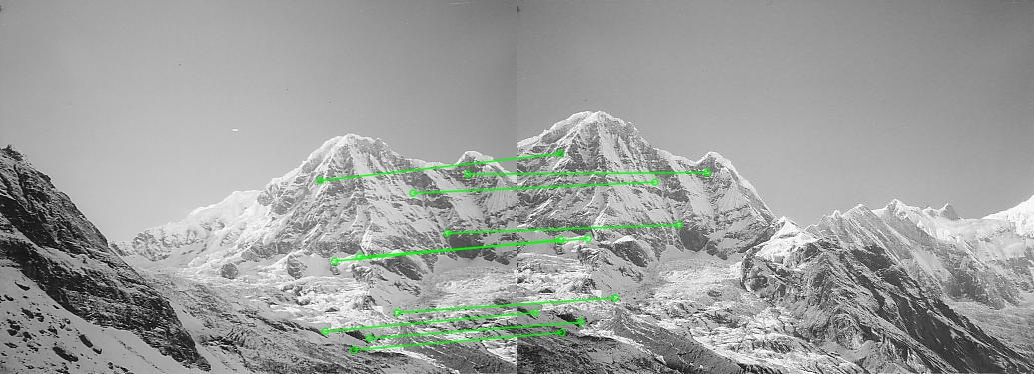
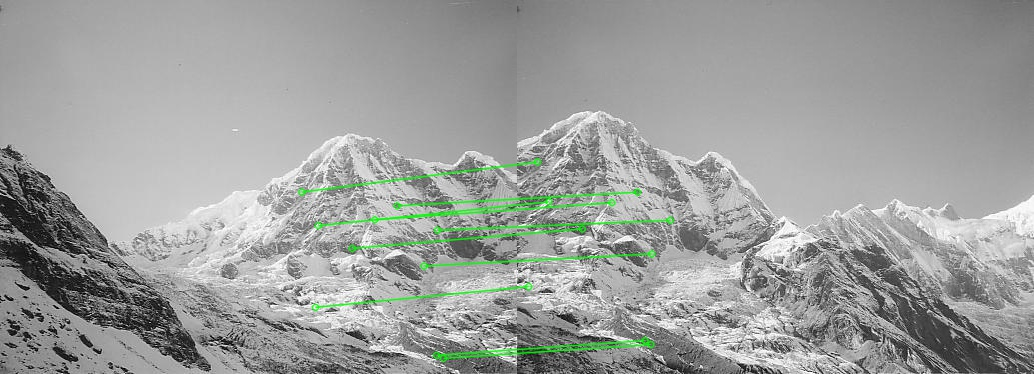
Added image stitching for the task 1

Changed region(s): [[0.2785, 0.3824, 0.7118, 0.7353], [0.2785, 0.7647, 0.6499, 0.9706]]

diff --git a/Project 2/Task1/main.py b/Project 2/Task1/main.py
@@ -70,7 +70,7 @@ def _draw_match_keypoints(*args):
     return(good_matches)
 
 
-def _get_homography_matrix(good_matches, keypoint_1, keypoint_2, _H = True):
+def _get_homography_matrix(good_matches, keypoint_1, keypoint_2, _H=True):
     """Homography matrix H (with RANSAC) from the image 1 to image 2
     """
     source = np.float32(
@@ -82,7 +82,7 @@ def _get_homography_matrix(good_matches, keypoint_1, keypoint_2, _H = True):
     if _H:
         print("Homography Matrix  : ")
         print(H)
-    return(mask)
+    return(mask, H)
 
 
 def _draw_inlier_match_keypoints(img1_g, keypoint_1, img2_g, keypoint_2, good_matches, mask):
@@ -90,7 +90,8 @@ def _draw_inlier_match_keypoints(img1_g, keypoint_1, img2_g, keypoint_2, good_ma
     TODO : Check if good_matches in this case is just inliers or both inliers and outliers
     """
     good_matches = random.sample(good_matches, 10)
-    mask = _get_homography_matrix(good_matches, keypoint_1, keypoint_2, _H = False)
+    mask, _ = _get_homography_matrix(
+        good_matches, keypoint_1, keypoint_2, _H=False)
     matchesMask = mask.ravel().tolist()
     # matchesMask = matchesMask[:10]
     draw_params = dict(matchColor=(0, 255, 0),  # draw matches in green color
@@ -98,10 +99,50 @@ def _draw_inlier_match_keypoints(img1_g, keypoint_1, img2_g, keypoint_2, good_ma
                        matchesMask=matchesMask,  # draw only inliers
                        flags=2)
     # print(len(matchesMask))
-    good_matches = [i[0] for i in good_matches] # Get the elements inside of list elements
+    # Get the elements inside of list elements
+    good_matches = [i[0] for i in good_matches]
     img3 = cv.drawMatches(img1_g, keypoint_1, img2_g,
                           keypoint_2, good_matches, None, **draw_params)
     _save('task1_matches.jpg', img3)
+
+
+def _get_stitched_image(img1, img2, H_Matrix):
+    """
+    """
+
+    # Get width and height of input images
+    width1, height1 = img1.shape
+    width2, height2 = img2.shape
+
+    # Get the canvas dimesions
+    img1_dims = np.float32(
+        [[0, 0], [0, width1], [height1, width1], [height1, 0]]).reshape(-1, 1, 2)
+    img2_dims = np.float32(
+        [[0, 0], [0, width2], [height2, width2], [height2, 0]]).reshape(-1, 1, 2)
+
+    # Get relative perspective of second image
+    img2_dims = cv.perspectiveTransform(img2_dims, H_Matrix)
+
+    # Resulting dimensions
+    result_dims = np.concatenate((img1_dims, img2_dims), axis=0)
+
+    # Getting images together
+    # Calculate dimensions of match points
+    [x_min, y_min] = np.int32(result_dims.min(axis=0).ravel() - 0.5)
+    [x_max, y_max] = np.int32(result_dims.max(axis=0).ravel() + 0.5)
+
+    # Create output array after affine transformation
+    transform_dist = [-x_min, -y_min]
+    transform_array = np.array([[1, 0, transform_dist[0]],
+                                [0, 1, transform_dist[1]],
+                                [0, 0, 1]])
+
+    # Warp images to get the resulting image
+    result_img = cv.warpPerspective(img2, transform_array.dot(H_Matrix),
+                                    (x_max-x_min, y_max-y_min))
+    result_img[transform_dist[1]:width1+transform_dist[1],
+               transform_dist[0]:height1+transform_dist[0]] = img1
+    _save('task1_pano.jpg', result_img)
 
 
 if __name__ == '__main__':
@@ -120,8 +161,12 @@ if __name__ == '__main__':
                                          img2_g, keypoint_2, descriptor_2)
 
     # Part 3
-    mask = _get_homography_matrix(good_matches, keypoint_1, keypoint_2)
+    mask, H_Matrix = _get_homography_matrix(
+        good_matches, keypoint_1, keypoint_2)
 
     # Part 4
     _draw_inlier_match_keypoints(
         img1_g, keypoint_1, img2_g, keypoint_2, good_matches, mask)
+
+    # Part 5
+    _get_stitched_image(img2_g, img1_g, H_Matrix)
